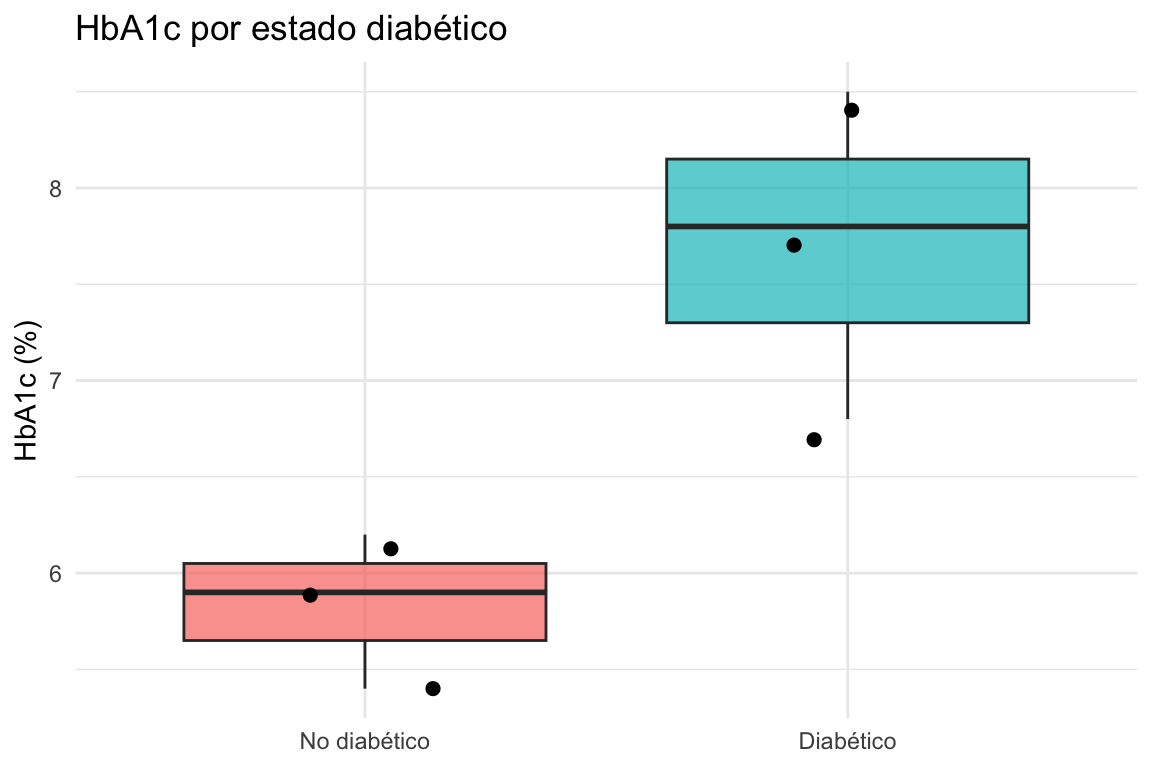
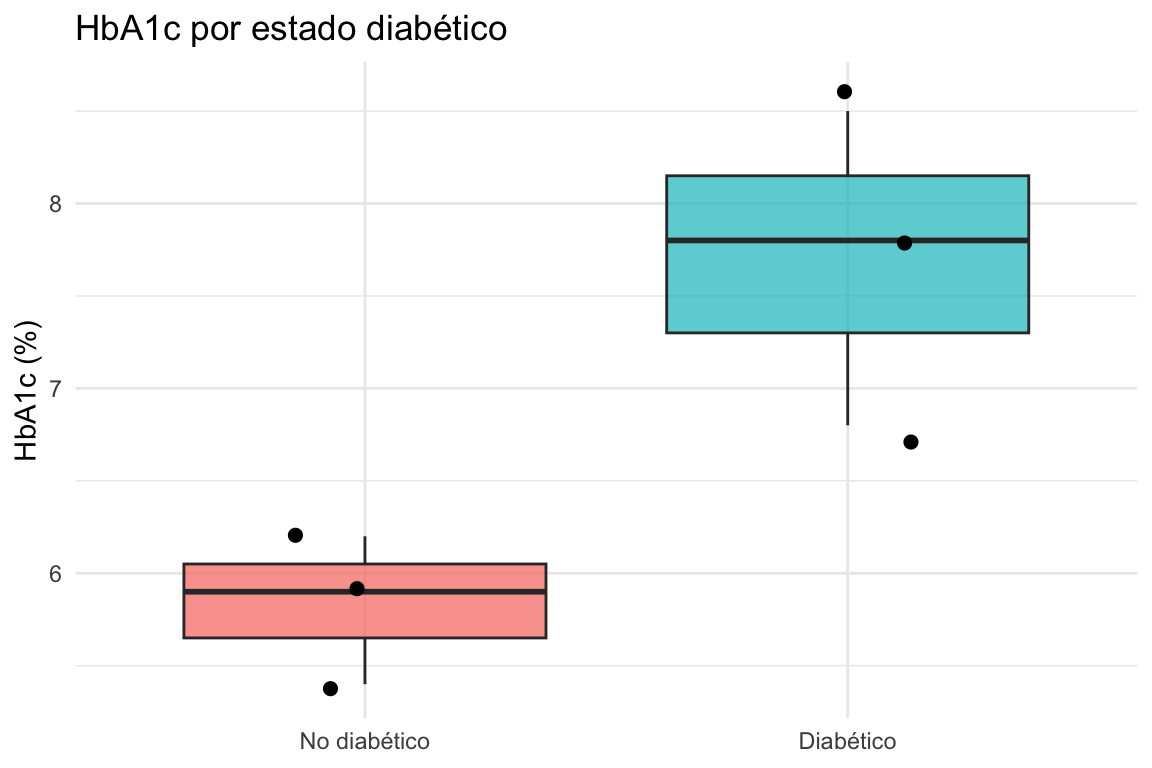
Corregir solucionario del examen (errores en P1.2 y P4.1)

diff --git a/docs/chapters/examen.html b/docs/chapters/examen.html
@@ -553,12 +553,12 @@ Mostrar respuesta 1.2 (solo instructor)
 </button>
 <div class="instructor-answer" style="display:none;">
 <p><strong>a) Coeficiente de Pearson:</strong></p>
-<p><span class="math display">\[\text{Primero: } \bar{x} = 3.1, \quad \bar{y} = 5.0\]</span></p>
-<p><span class="math display">\[s_x = 1.23, \quad s_y = 1.27\]</span></p>
-<p><span class="math display">\[\text{Covarianza: } \text{Cov}(X,Y) = \frac{\sum(x_i - \bar{x})(y_i - \bar{y})}{n-1} \approx 1.40\]</span></p>
-<p><span class="math display">\[r = \frac{\text{Cov}(X,Y)}{s_x s_y} = \frac{1.40}{1.23 \times 1.27} \approx 0.90\]</span></p>
-<p><strong>b) Interpretación:</strong> Existe una correlación positiva muy fuerte (r ≈ 0.90) entre horas de estudio y nota del examen. A mayor número de horas, mayor calificación. Aproximadamente 81% (r²) de la variación en notas se explica por las horas de estudio.</p>
-<p><strong>c) Valores atípicos:</strong> La relación es lineal sin desvíos aparentes. No hay evidencia de outliers en los datos.</p>
+<p><span class="math display">\[\text{Primero: } \bar{x} = 3.1, \quad \bar{y} \approx 5.05\]</span></p>
+<p><span class="math display">\[s_x \approx 1.150, \quad s_y \approx 1.235\]</span></p>
+<p><span class="math display">\[\text{Covarianza: } \text{Cov}(X,Y) = \frac{\sum(x_i - \bar{x})(y_i - \bar{y})}{n-1} \approx 1.411\]</span></p>
+<p><span class="math display">\[r = \frac{\text{Cov}(X,Y)}{s_x s_y} = \frac{1.411}{1.150 \times 1.235} \approx 0.994\]</span></p>
+<p><strong>b) Interpretación:</strong> Existe una correlación positiva casi perfecta (r ≈ 0.994) entre horas de estudio y nota del examen. A mayor número de horas, mayor calificación. Aproximadamente 98.8% (r²) de la variación en notas se explica por las horas de estudio.</p>
+<p><strong>c) Valores atípicos:</strong> La relación es fuertemente lineal con un único punto (1.5 h, nota 3) que se desvía ligeramente de la tendencia y = x + 2 del resto de pares; la correlación casi perfecta sugiere que este desvío es pequeño y no hay evidencia de outliers importantes.</p>
 </div>
 <hr>
 </section>
@@ -715,22 +715,21 @@ Mostrar respuesta 4.1 (solo instructor)
 <p><strong>a) Estimación del modelo:</strong></p>
 <p>Primero calculamos estadísticos:</p>
 <ul>
-<li><span class="math inline">\(\bar{x} = 102.5\)</span>, <span class="math inline">\(\bar{y} = 186.25\)</span></li>
-<li><span class="math inline">\(S_{xx} = \sum(x_i - \bar{x})^2 = 1512.5\)</span></li>
-<li><span class="math inline">\(S_{xy} = \sum(x_i - \bar{x})(y_i - \bar{y}) = 3057.5\)</span></li>
-<li><span class="math inline">\(S_{yy} = \sum(y_i - \bar{y})^2 = 6337.5\)</span></li>
+<li><span class="math inline">\(\bar{x} = 101.25\)</span>, <span class="math inline">\(\bar{y} = 186.25\)</span></li>
+<li><span class="math inline">\(S_{xx} = \sum(x_i - \bar{x})^2 = 2137.5\)</span></li>
+<li><span class="math inline">\(S_{xy} = \sum(x_i - \bar{x})(y_i - \bar{y}) = 3162.5\)</span></li>
 </ul>
-<p>Coeficiente de regresión: <span class="math display">\[\hat{\beta}_1 = \frac{S_{xy}}{S_{xx}} = \frac{3057.5}{1512.5} \approx 2.021\]</span></p>
-<p>Ordenada en el origen: <span class="math display">\[\hat{\beta}_0 = \bar{y} - \hat{\beta}_1\bar{x} = 186.25 - 2.021 \times 102.5 \approx -22.41\]</span></p>
-<p><strong>Modelo estimado:</strong> <span class="math display">\[\hat{Y} = -22.41 + 2.021 X\]</span></p>
-<p><strong>b) Interpretación de coeficientes:</strong> - <span class="math inline">\(\hat{\beta}_0 = -22.41\)</span>: Es el precio teórico para X = 0 (sin interpretación práctica, pues no hay viviendas de 0 m²) - <span class="math inline">\(\hat{\beta}_1 = 2.021\)</span>: Por cada m² adicional, el precio aumenta aproximadamente 2.021 mil euros, o sea, 2021 € por m²</p>
+<p>Coeficiente de regresión: <span class="math display">\[\hat{\beta}_1 = \frac{S_{xy}}{S_{xx}} = \frac{3162.5}{2137.5} \approx 1.480\]</span></p>
+<p>Ordenada en el origen: <span class="math display">\[\hat{\beta}_0 = \bar{y} - \hat{\beta}_1\bar{x} = 186.25 - 1.480 \times 101.25 \approx 36.45\]</span></p>
+<p><strong>Modelo estimado:</strong> <span class="math display">\[\hat{Y} = 36.45 + 1.480 X\]</span></p>
+<p><strong>b) Interpretación de coeficientes:</strong> - <span class="math inline">\(\hat{\beta}_0 = 36.45\)</span>: Es el precio base teórico (no tiene interpretación práctica directa para <span class="math inline">\(X=0\)</span>) - <span class="math inline">\(\hat{\beta}_1 = 1.480\)</span>: Por cada m² adicional, el precio aumenta aproximadamente 1.480 mil euros (1480 €/m²)</p>
 <p><strong>c) Coeficiente de determinación R²:</strong></p>
-<p><span class="math display">\[r = \frac{S_{xy}}{\sqrt{S_{xx} \times S_{yy}}} = \frac{3057.5}{\sqrt{1512.5 \times 6337.5}} \approx 0.9815\]</span></p>
-<p><span class="math display">\[R^2 = r^2 \approx 0.963\]</span></p>
-<p>Interpretación: El 96.3% de la variabilidad en los precios se explica por el tamaño de la vivienda. El ajuste es excelente.</p>
+<p><span class="math display">\[S_{yy} = \sum(y_i - \bar{y})^2 = 4737.5\]</span></p>
+<p><span class="math display">\[R^2 = \frac{(S_{xy})^2}{S_{xx} \times S_{yy}} = \frac{(3162.5)^2}{2137.5 \times 4737.5} \approx \frac{10.00 \times 10^6}{10.13 \times 10^6} \approx 0.9876\]</span></p>
+<p>Interpretación: El 98.8% de la variabilidad en los precios se explica por el tamaño de la vivienda. El ajuste es excelente.</p>
 <p><strong>d) Predicción para X = 105 m²:</strong></p>
-<p><span class="math display">\[\hat{Y}(105) = -22.41 + 2.021 \times 105 = -22.41 + 212.205 \approx 189.80 \text{ k€}\]</span></p>
-<p>Precio predicho: aproximadamente <strong>189,800 €</strong> para una vivienda de 105 m².</p>
+<p><span class="math display">\[\hat{Y}(105) = 36.45 + 1.480 \times 105 = 36.45 + 155.40 \approx 191.85 \text{ k€}\]</span></p>
+<p>Precio predicho: aproximadamente <strong>191,850 €</strong> para una vivienda de 105 m².</p>
 </div>
 <hr>
 </section>
